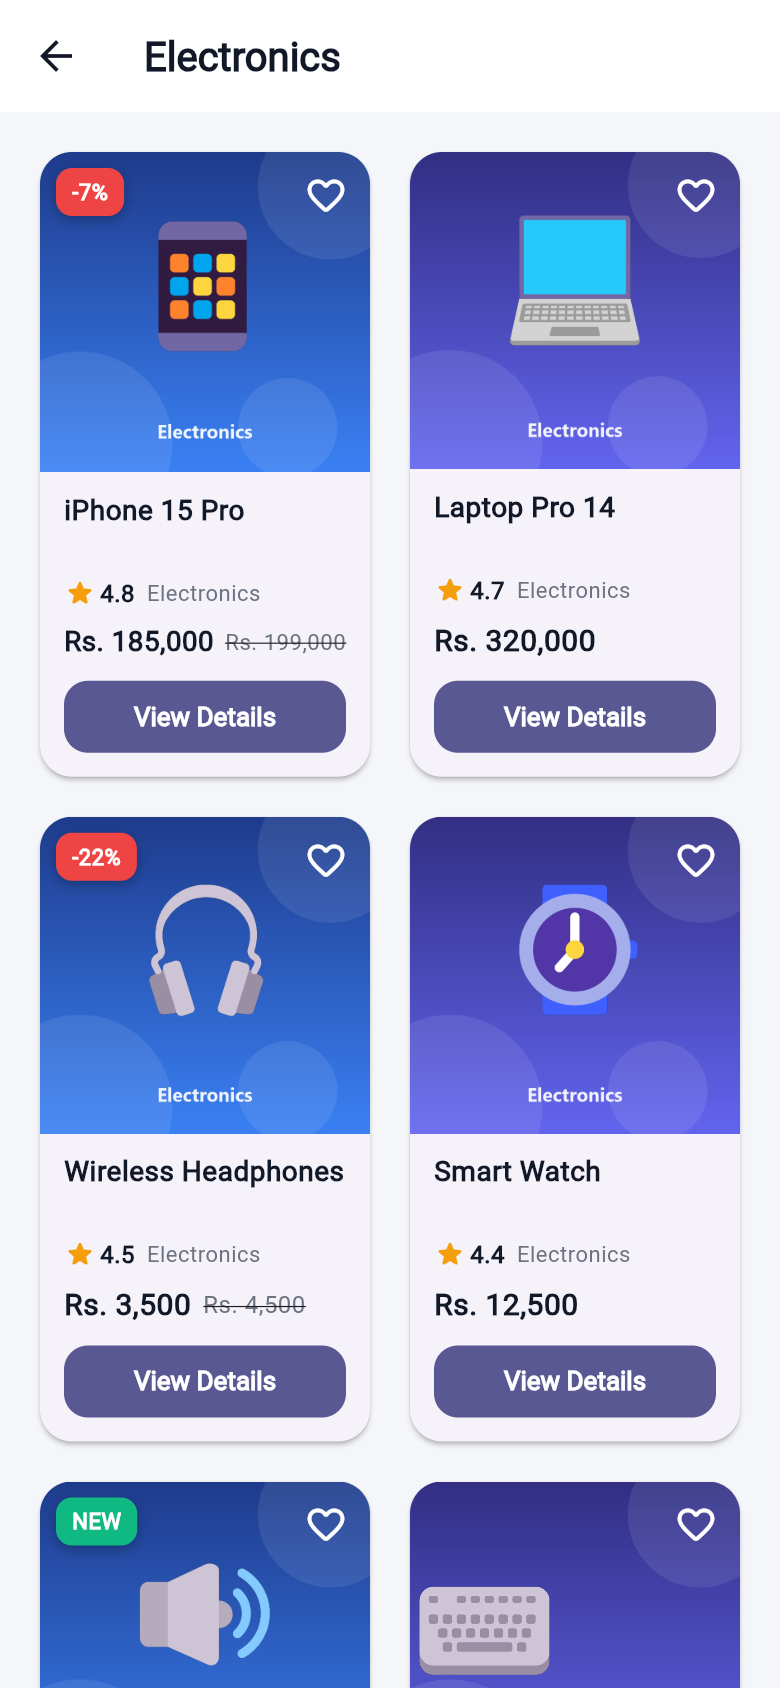
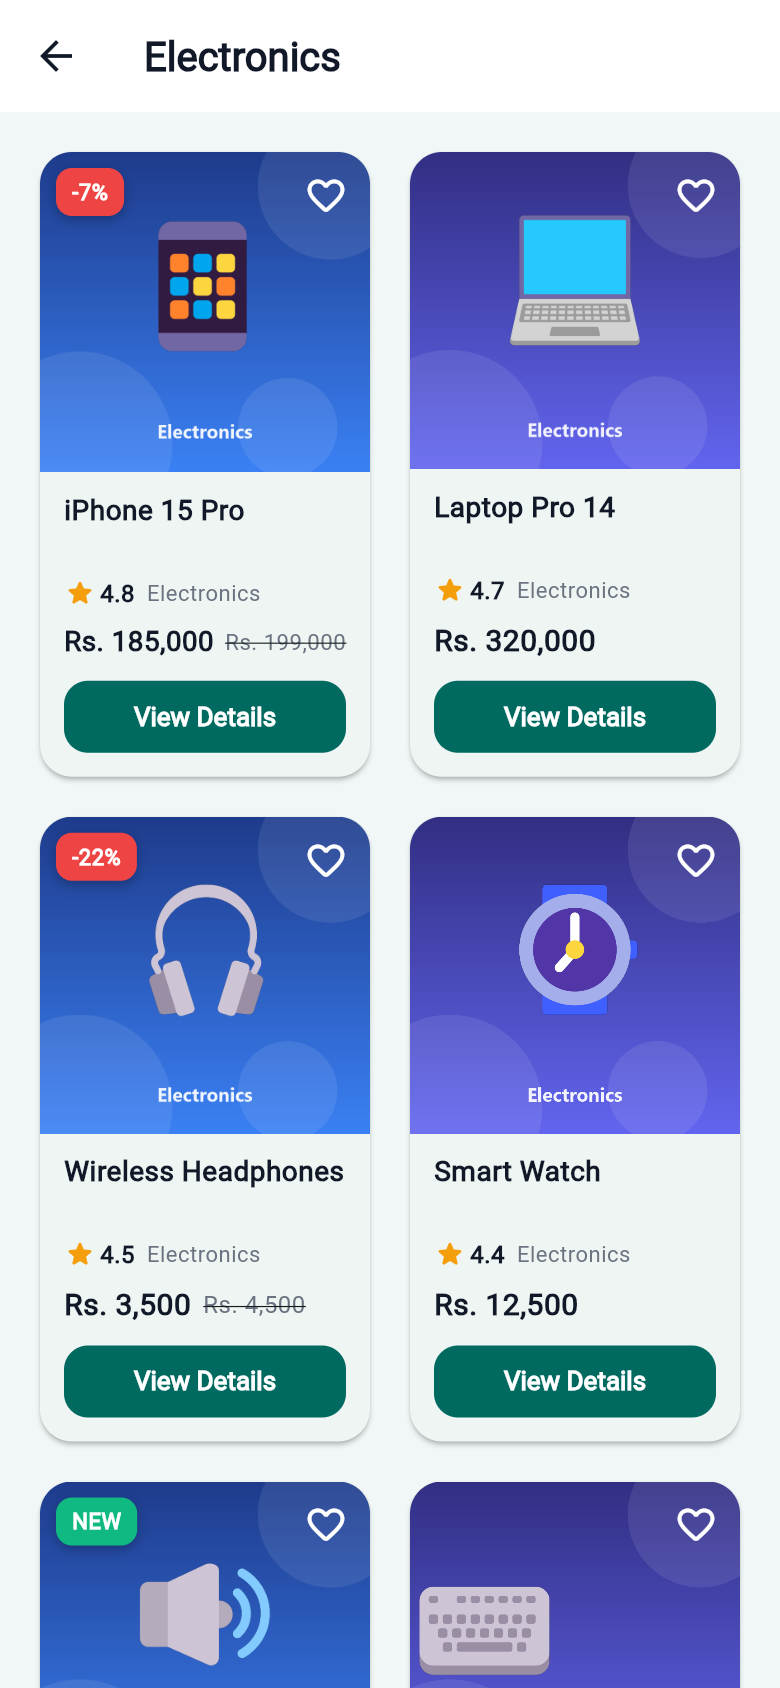
Restyle app with teal/emerald theme
- Primary seed color 0xFF0D9488 (teal-600) across buttons, icons, links
- Teal-tinted scaffold background, theme-driven AppBar logo
- Updated README screenshots

diff --git a/lib/theme/app_theme.dart b/lib/theme/app_theme.dart
@@ -3,7 +3,7 @@ import 'package:flutter/material.dart';
 class AppColors {
   AppColors._();
 
-  static const Color background = Color(0xFFF5F6FA);
+  static const Color background = Color(0xFFF0F7F6);
   static const Color surface = Colors.white;
   static const Color textDark = Color(0xFF111827);
   static const Color textMuted = Color(0xFF6B7280);
@@ -17,7 +17,7 @@ class AppTheme {
 
   static ThemeData get light {
     final scheme =
-        ColorScheme.fromSeed(seedColor: const Color(0xFF4F46E5));
+        ColorScheme.fromSeed(seedColor: const Color(0xFF0D9488));
 
     return ThemeData(
       useMaterial3: true,

diff --git a/lib/screens/home_page.dart b/lib/screens/home_page.dart
@@ -51,11 +51,14 @@ class _HomePageState extends State<HomePage> {
     return Scaffold(
       appBar: AppBar(
         titleSpacing: 16,
-        title: const Row(
+        title: Row(
           children: [
-            Icon(Icons.shopping_bag_rounded, color: Color(0xFF4F46E5)),
-            SizedBox(width: 8),
-            Text('MyShop'),
+            Icon(
+              Icons.shopping_bag_rounded,
+              color: Theme.of(context).colorScheme.primary,
+            ),
+            const SizedBox(width: 8),
+            const Text('MyShop'),
           ],
         ),
         actions: [
